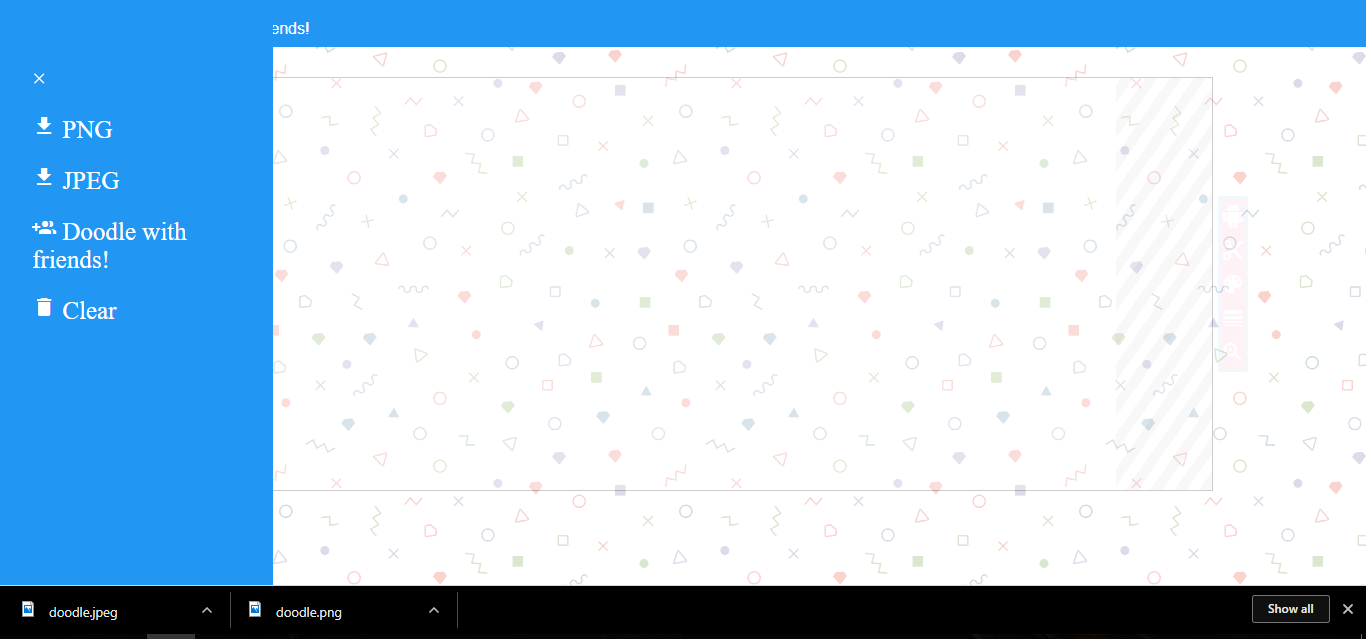
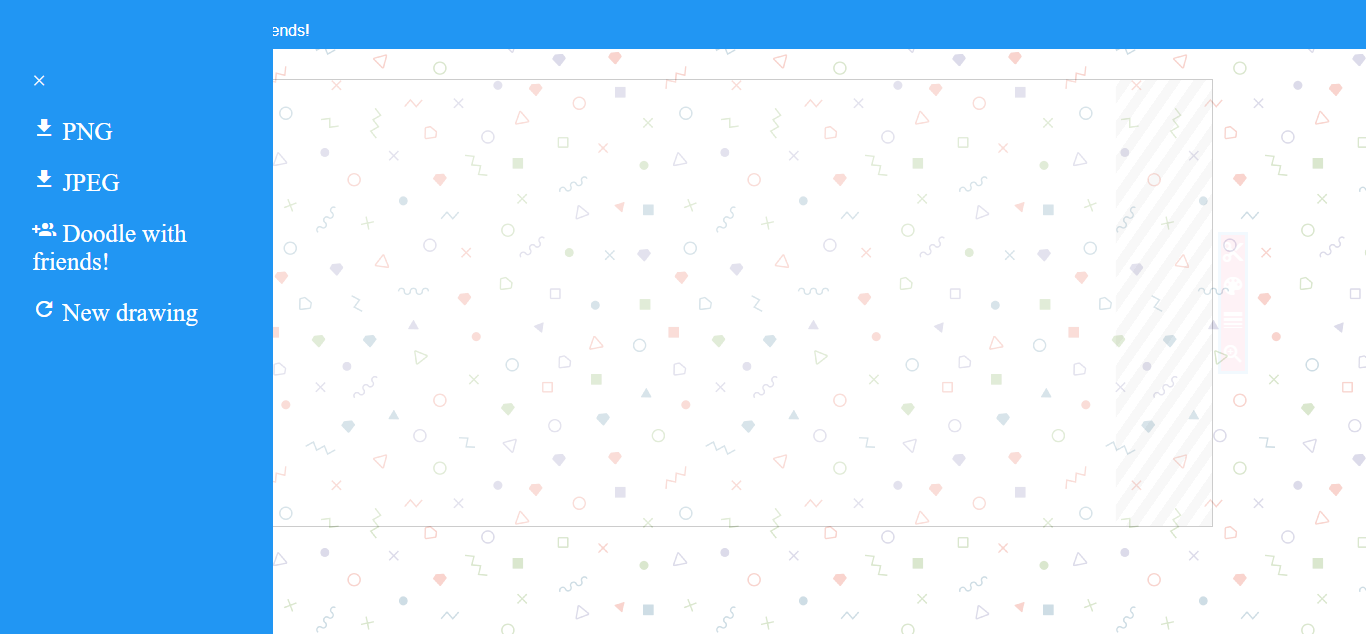
Updated documentation and a bit of html

diff --git a/Documentation/index.html b/Documentation/index.html
@@ -35,14 +35,15 @@
             APix is a web application that highlights teamwork and mobility in a small simple package,
             to enable users to draw collaboratively on a single canvas. Its working enviroment is a web browser
             (desktop and mobile orientated) but also offers its users to use their phone as a pointer for drawing on the
-            canvas
-            via an android application.
+            canvas via an Android application.
     </section>
     <section typeof="sa:MaterialsAndMethods" id="motivation">
         <h2>Motivation</h2>
         <p>
             Similar applications, even though have a lot of drawing capabilities,
             do not offer support for alternative pointing devices, like the phone inside your pocket!
+
+            [Experimental] -- responsive and good handle for static images
     </section>
 
     <section typeof="sa:Results" id="definition">
@@ -76,7 +77,7 @@
     <section id="">
         <h2>Application arhitecture - TO EDIT</h2>
         <br>
-        <img src=".\images\arhitectura.png" alt="Diagrama arhitecturală"/>
+        <img src="./images/arhitectura.PNG" alt="Diagrama arhitecturală"/>
         <p class="imagetext">Fig. 1 - Application arhitecture diagram</p>
 
         <h2> The workflow of the application</h2>
@@ -119,7 +120,7 @@
                 <li><i class="material-icons icon">file_download</i>PNG - to export drawing in PNG format</li>
                 <li><i class="material-icons icon">file_download</i>JPEG - to export drawing in JPEG format</li>
                 <li><i class="material-icons icon">group_add</i> - to generate a shareable link to be sent to another drawing partner</li>
-                <li><i class="material-icons icon">delete</i> - to clear the canvas of all drawings</li>
+                <li><i class="material-icons icon">refresh</i> - to start a new, fresh session of drawing</li>
             </ul>
 
         <img src="images/Fig5.PNG" alt="Side menu for different features"/>
@@ -151,6 +152,7 @@
         <h2>Technologies</h2>
         <p>
             <h4>Client Side</h4>
+        TO ADD: background/drawable chache, creating from scratch the zoom functionality
         <p>
             To create APix we have used <i>HTML5</i>, <i>CSS3</i> and <i>JavaScript</i> for the frontend part but also
             some Material Design icons and suggestions for a pleasant UI. The project has been created without any external libraries
@@ -189,19 +191,8 @@
         <p>
 
 
-        <h2>Stages of the project</h2>
-        <ul>
-            <li><b>Week 5:</b> Choosing project and documentation.</li>
-            <li><b>Week 6,7:</b> Designing the frontend and implementing it.</li>
-            <li><b>Week 8:</b> Finish frontend.</li>
-            <li><b>Week 12,13,14:</b> Establish backend and implement it.</li>
-        </ul>
-
         <h3>Task distribution</h3>
         <ul>
-
-        </ul>
-        </li>
         <li> Cristian Huma
             <ul>
                 <li>Frontend HTML5+CSS</li>
@@ -209,8 +200,9 @@
                 <li>Documentation and demo</li>
             </ul>
         </li>
+        </ul>
 
-        </ul> </li>
+        <ul>
         <li> Corodescu Alin Andrei
             <ul>
                 <li>Frontend HTML5+CSS</li>
@@ -219,7 +211,6 @@
                 <li>Documentation and demo</li>
             </ul>
         </li>
-
         </ul>
 
 

diff --git a/Website/index.html b/Website/index.html
@@ -122,11 +122,6 @@
                     <input id="upload_image" type="file" class="hidden_function" />
 
                     <div class="popup" onmouseover="showPopupText(this)" onmouseout="hidePopupText(this)">
-                        <i class="material-icons icon">android</i>
-                        <span class="popuptext">Connect an android device!</span>
-                    </div>
-
-                    <div class="popup" onmouseover="showPopupText(this)" onmouseout="hidePopupText(this)">
                         <i class="material-icons icon" id="eraser">content_cut</i>
                         <span class="popuptext">Eraser!</span>
                     </div>
